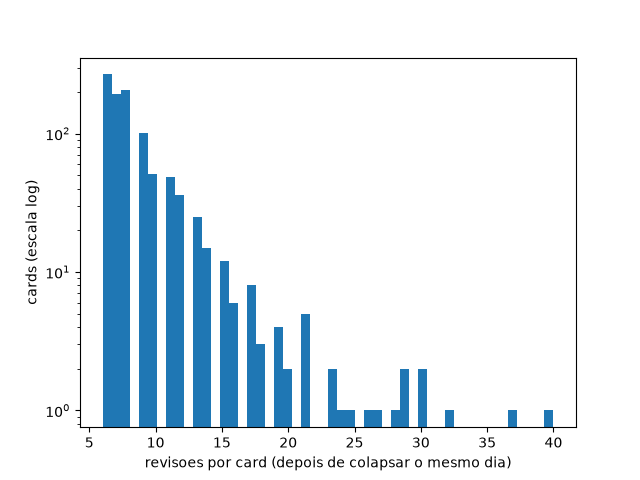
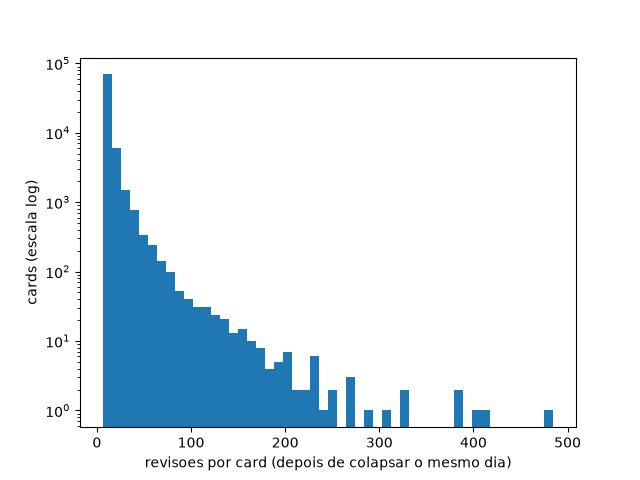
chore: etapa inicial com 500 usuários

diff --git a/reports/etapa0.md b/reports/etapa0.md
@@ -1,16 +1,16 @@
 etapa 0: base comum
 
-gerado com `uv run python -m fs.data --n-users 5` em 0.0 min
+gerado com `uv run python -m fs.data --n-users 500` em 38.4 min
 dataset `open-spaced-repetition/anki-revlogs-10k` @ `75299740cff0` . seed 2903 . N = 6, H = 180 dias, L = 2, teto = 200.
 
-usuarios por split (com algum card) => treino 3 . val 1 . teste 1
-usuarios sem nenhum card elegivel => 0
-revisoes brutas baixadas => 240,853
-cards elegiveis antes do teto => 12,104 (top-2 usuarios: 67%)
-cards elegiveis por usuario => mediana 3417 . p90 4126 . max 4443
-cards apos o teto => 1,000
-prevalencia de card problematico no treino (L = 2) => 6.0%
-robustez no treino: L = 1 . L = 3 => 15.5% . 3.3%
+usuarios por split (com algum card) => treino 274 . val 93 . teste 96
+usuarios sem nenhum card elegivel => 37
+revisoes brutas baixadas => 37,439,493
+cards elegiveis antes do teto => 1,406,565 (top-2 usuarios: 5%)
+cards elegiveis por usuario => mediana 734 . p90 7819 . max 37761
+cards apos o teto => 78,751
+prevalencia de card problematico no treino (L = 2) => 11.0%
+robustez no treino: L = 1 . L = 3 => 22.5% . 6.3%
 
 ![revisões por card](etapa0/n_reviews.png)
 
